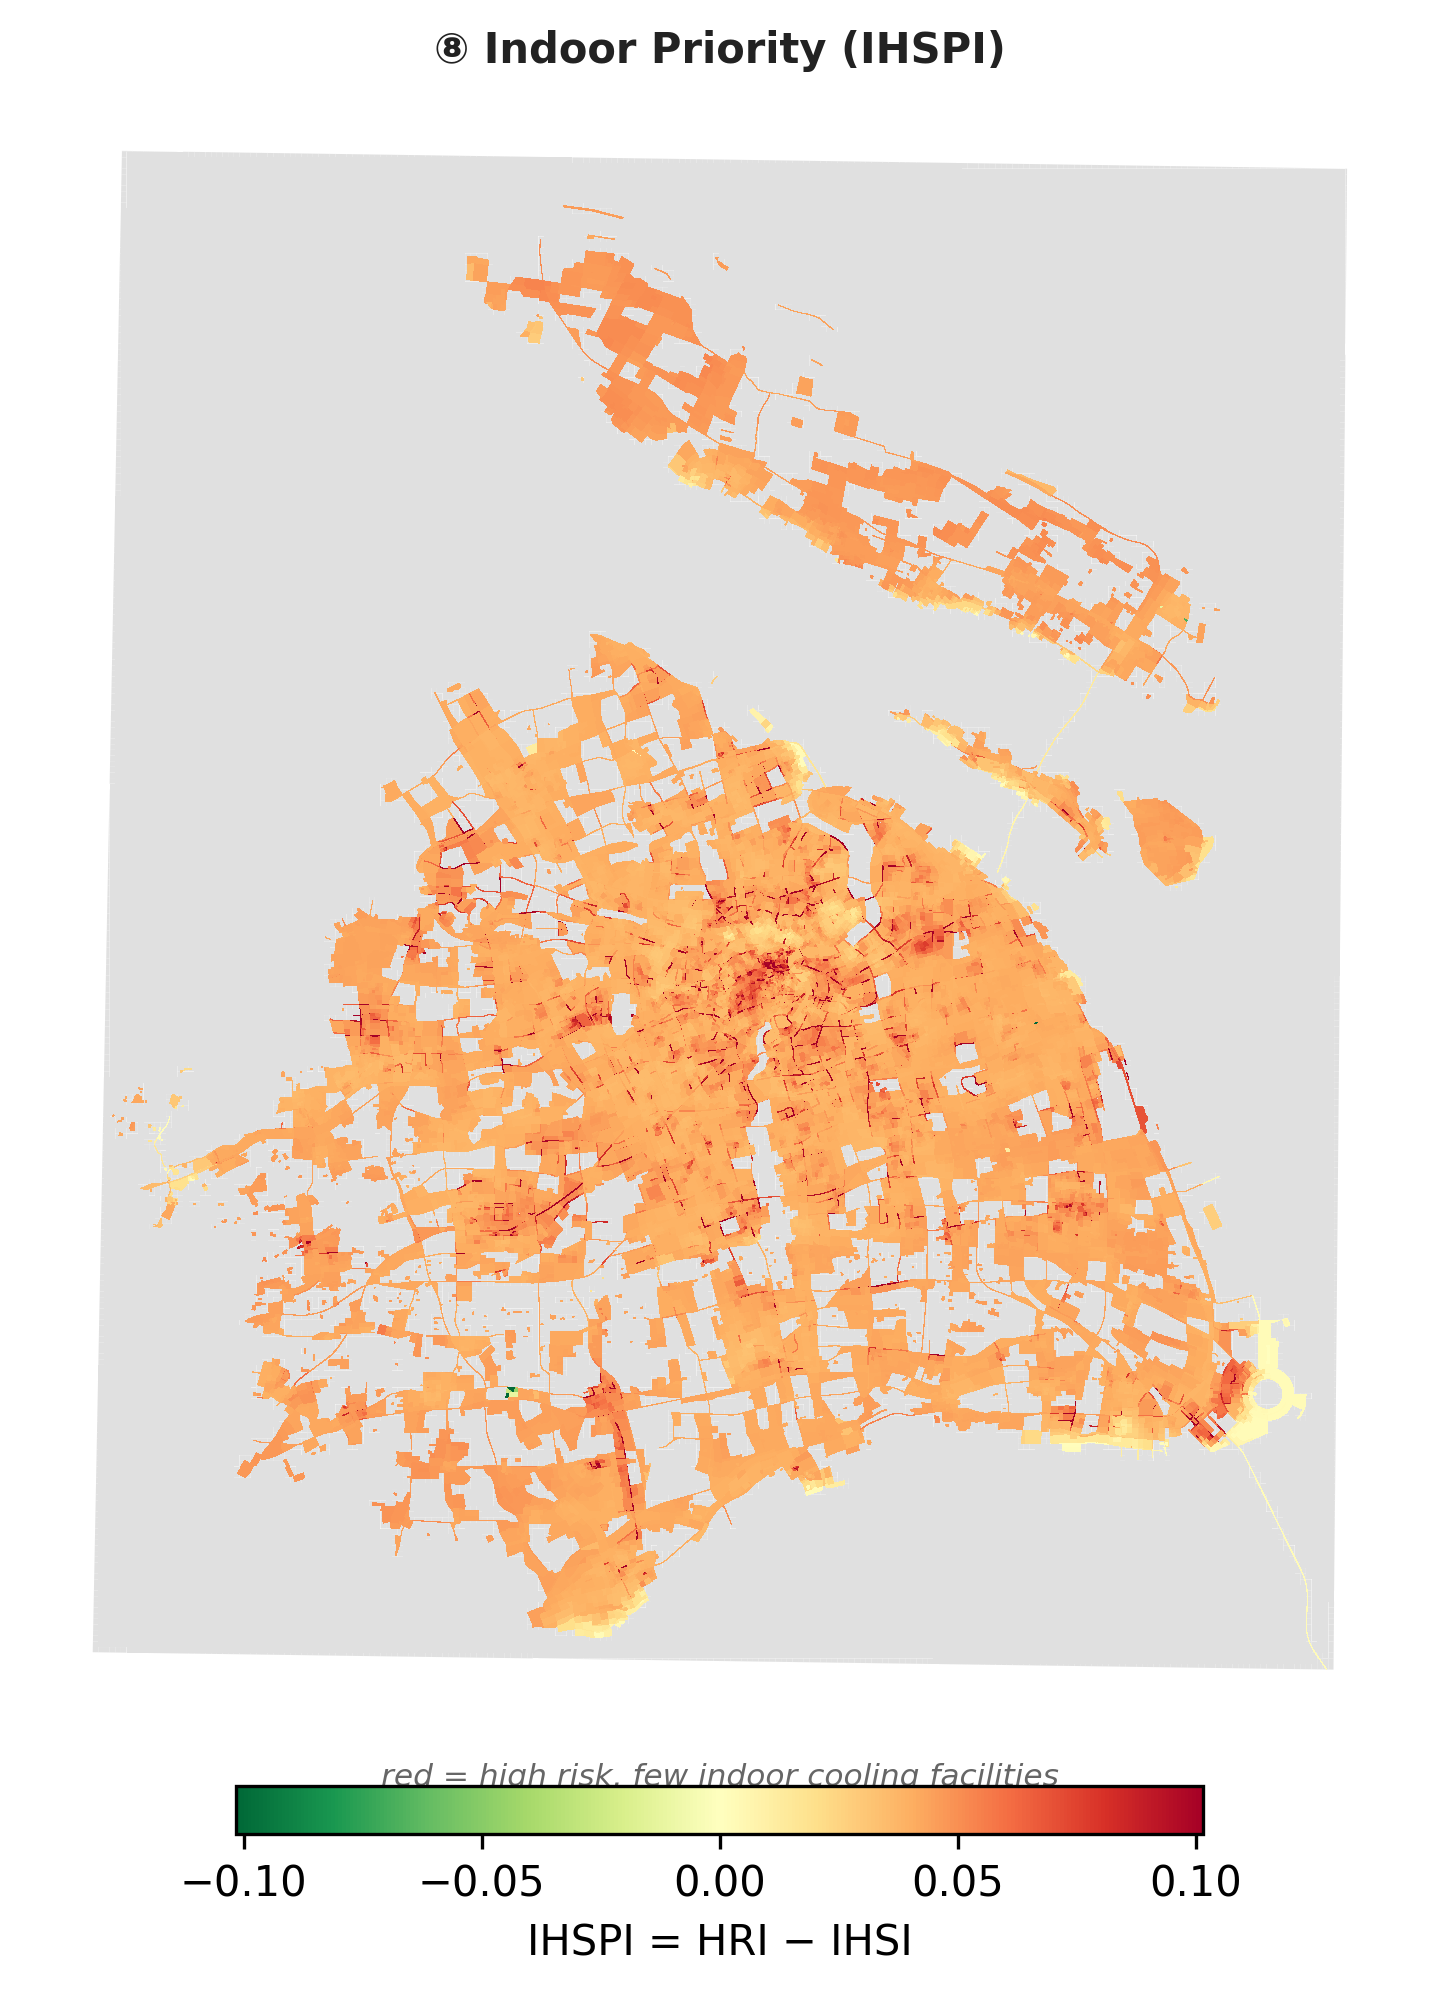
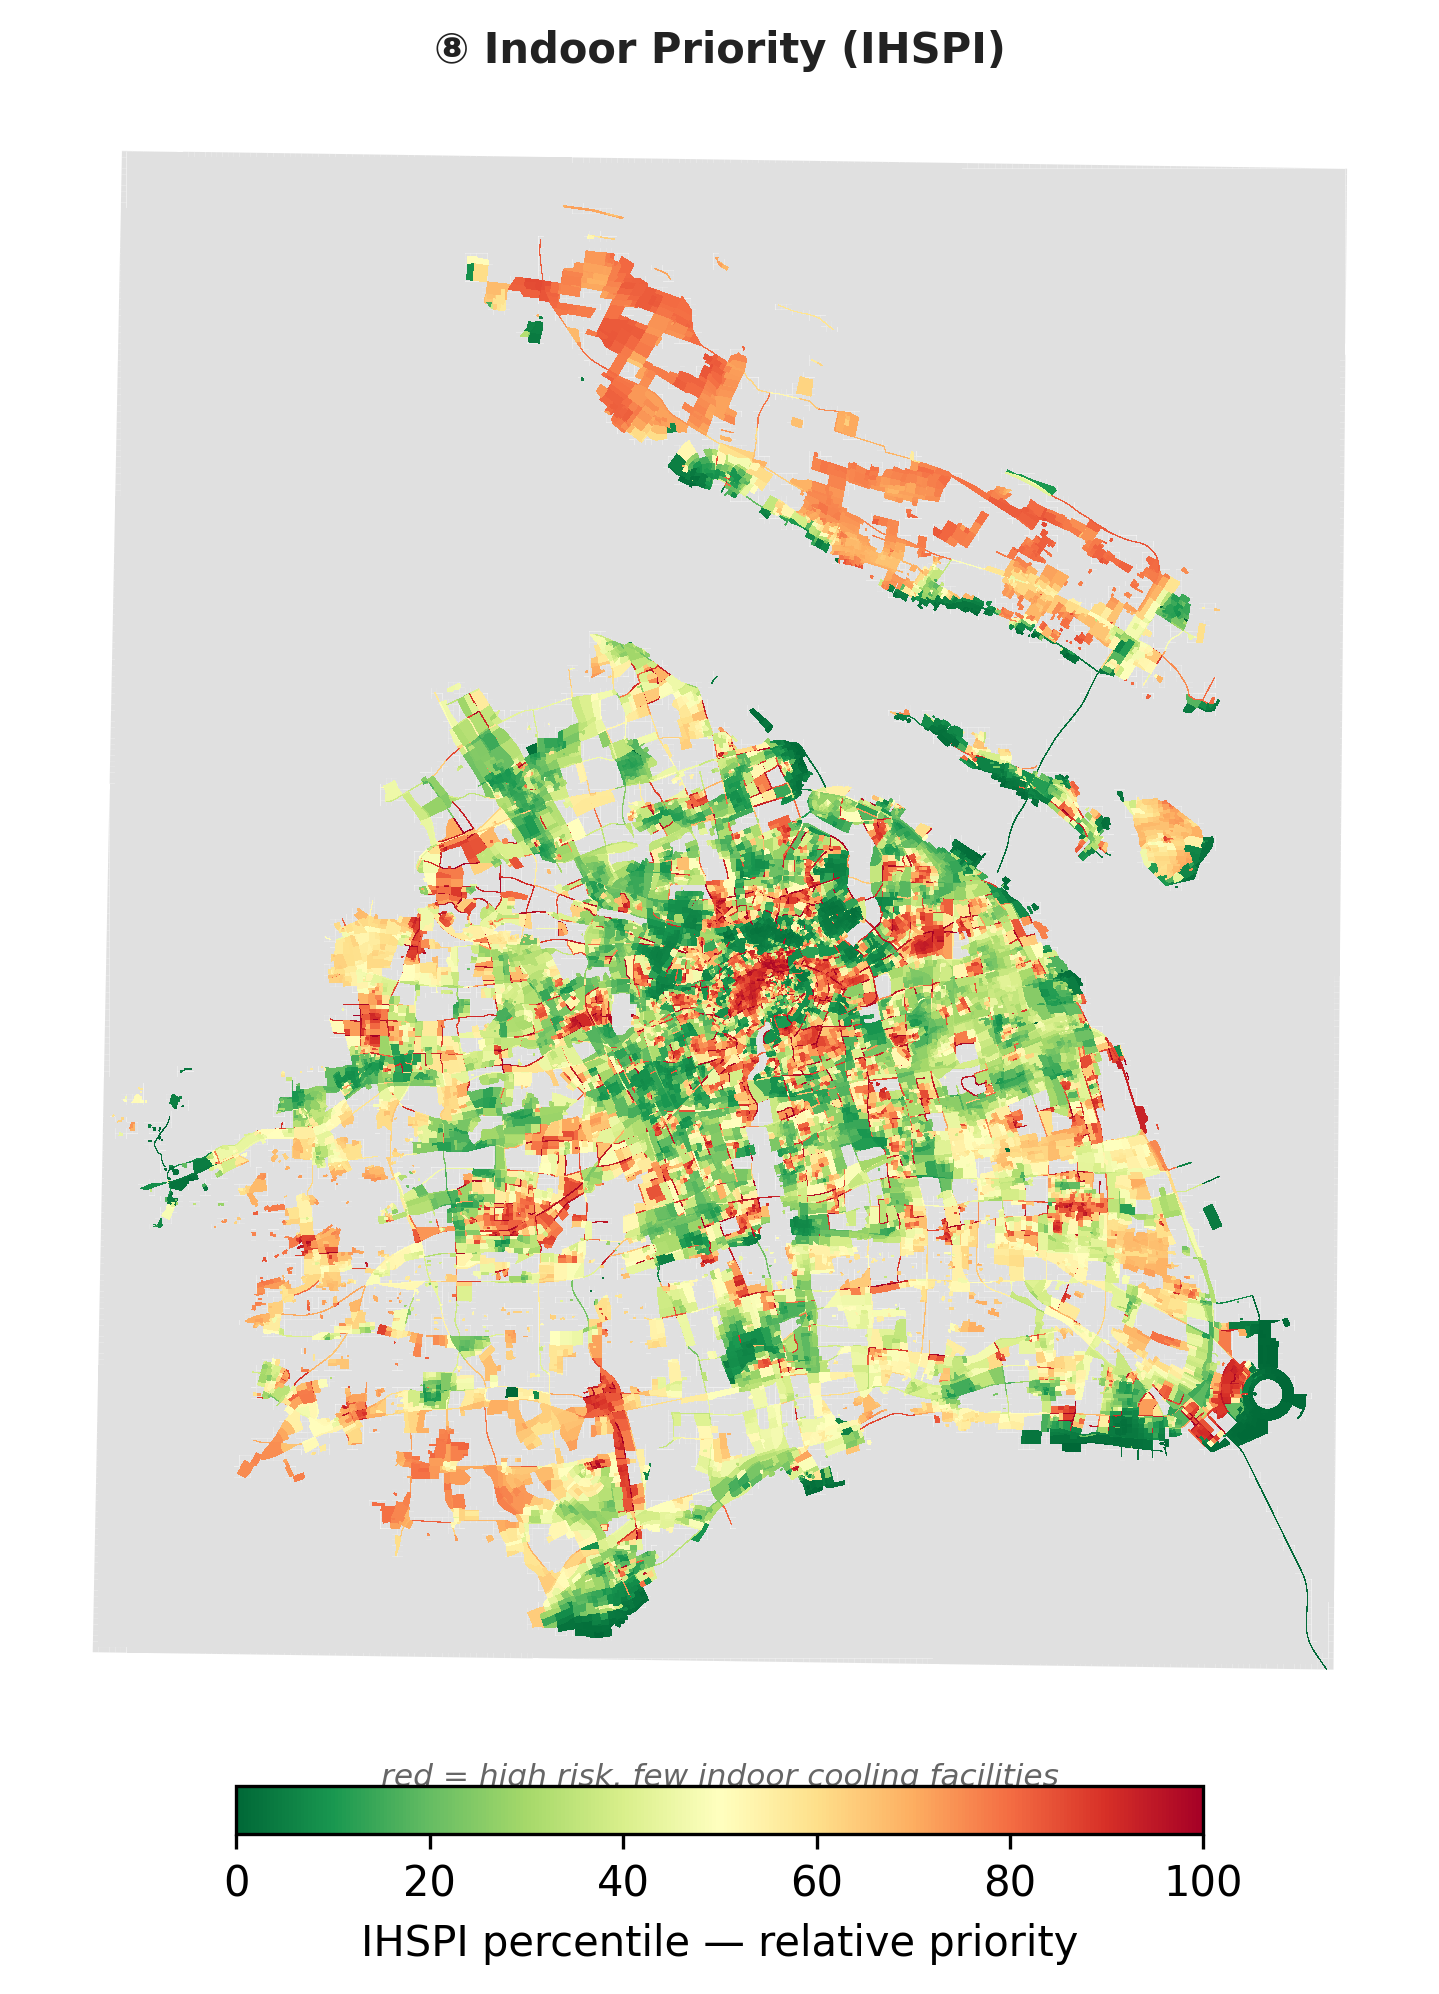
WIP: percentile-rank coloring for OHSPI/IHSPI process maps
[gstack-context]
Decisions: raw index too concentrated (p25-p75 = 0.040-0.046) for linear or quantile-break scales; percentile-rank mapping spreads the full RdYlGn ramp evenly; legend relabeled as percentile
Remaining: none
Skill: /office-hours (presentation asset work)
[/gstack-context]

diff --git a/scripts/10_infographic.py b/scripts/10_infographic.py
@@ -88,17 +88,18 @@ PANEL_SPECS = {
         "⑥ Indoor Cooling Facilities (IHSI)", "Weighted POI density per capita",
         "IHSI score",
     ),
-    # Priority maps: diverging, centered on 0 (risk == supply).
-    # vmin="sym" mirrors the resolved vmax so red/green are comparable.
+    # Priority maps: percentile-rank coloring. The raw index is hyper-
+    # concentrated (p25–p75 ≈ 0.040–0.046), so a linear scale renders one
+    # orange blob; ranking spreads the full green→red ramp evenly.
     "ohspi": (
-        "ohspi", "RdYlGn_r", "sym", "p97",
+        "ohspi", "RdYlGn_r", "rank", None,
         "⑦ Outdoor Priority (OHSPI)", "red = high risk, low green space",
-        "OHSPI = HRI − OHSI",
+        "OHSPI percentile — relative priority",
     ),
     "ihspi": (
-        "ihspi", "RdYlGn_r", "sym", "p97",
+        "ihspi", "RdYlGn_r", "rank", None,
         "⑧ Indoor Priority (IHSPI)", "red = high risk, few indoor cooling facilities",
-        "IHSPI = HRI − IHSI",
+        "IHSPI percentile — relative priority",
     ),
 }
 
@@ -129,9 +130,15 @@ def resolve_vmax(gdf, column, vmax_spec):
 
 def render_map(ax, gdf, gdf_all, key, legend=True):
     col, cmap, vmin, vmax_spec, title, subtitle, leg_label = PANEL_SPECS[key]
-    vmax = resolve_vmax(gdf, col, vmax_spec)
-    if vmin == "sym":
-        vmin = -vmax
+    if vmin == "rank":
+        gdf = gdf.copy()
+        gdf["_rank"] = gdf[col].rank(pct=True) * 100
+        col = "_rank"
+        vmin, vmax = 0.0, 100.0
+    else:
+        vmax = resolve_vmax(gdf, col, vmax_spec)
+        if vmin == "sym":
+            vmin = -vmax
 
     gdf_all.plot(ax=ax, color="#E0E0E0", edgecolor="none", linewidth=0)
     gdf.plot(
